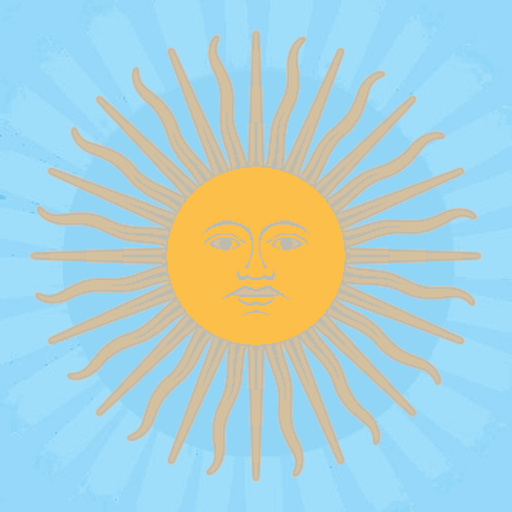
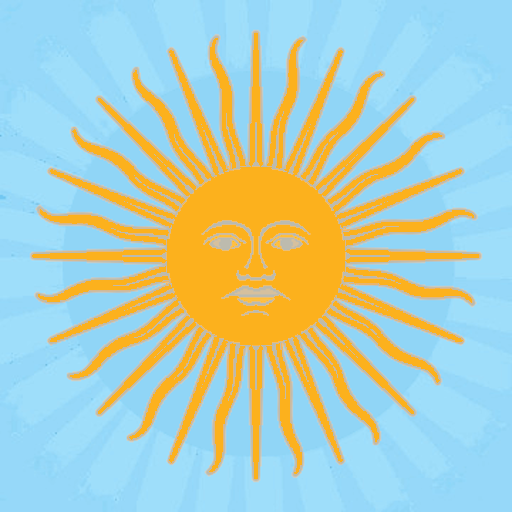
ArgQuiz - version 4 - prueba env y cambio de iconos

diff --git a/client/app/components/response/loading.tsx b/client/app/components/response/loading.tsx
@@ -1,4 +1,4 @@
-import { Image, ImageBackground } from "react-native";
+import { View, Image, ImageBackground } from "react-native";
 import { useSelector } from 'react-redux';
 
 import { IReducer } from "../../interface/Reducer";
@@ -15,9 +15,11 @@ const Loading = () => {
         <>
             {
                 response.loading &&
-                <ImageBackground source={require('../../../assets/fondo2.png')} style={responseStyles.containerLoading} resizeMode="cover">
-                    <Image source={require('../../../assets/loading.gif')} style={responseStyles.loadingIcon} resizeMode="center" />
-                </ImageBackground>
+                <View style={responseStyles.containerMainLoading}>
+                    <ImageBackground source={require('../../../assets/fondo2.png')} style={responseStyles.containerLoading} resizeMode="cover">
+                        <Image source={require('../../../assets/loading.gif')} style={responseStyles.loadingIcon} resizeMode="center" />
+                    </ImageBackground>
+                </View>
             }
         </>
     )

diff --git a/client/app/styles/response.styles.tsx b/client/app/styles/response.styles.tsx
@@ -4,16 +4,19 @@ export const responseStyles = StyleSheet.create({
 
     // LOADING
 
-    containerLoading: {
+    containerMainLoading: {
         width: Dimensions.get('window').width,
         height: Dimensions.get('window').height,
-        flex: 1,
-        justifyContent: 'center',
-        alignItems: 'center',
         top: 0,
         left: 0,
         position: 'absolute',
         zIndex: 44
+    },
+
+    containerLoading: {
+        flex: 1,
+        justifyContent: 'center',
+        alignItems: 'center'
     },
 
     loadingIcon: {

diff --git a/client/app/routes/playing.routes.tsx b/client/app/routes/playing.routes.tsx
@@ -194,7 +194,7 @@ const Playing = ({ navigation }: { navigation: StackNavigation }) => {
     }, [points])
 
     useEffect(() => {
-        const backHandler = BackHandler.addEventListener('hardwareBackPress', () => false)
+        const backHandler = BackHandler.addEventListener('hardwareBackPress', () => true)
         return () => backHandler.remove()
     }, [])
 
